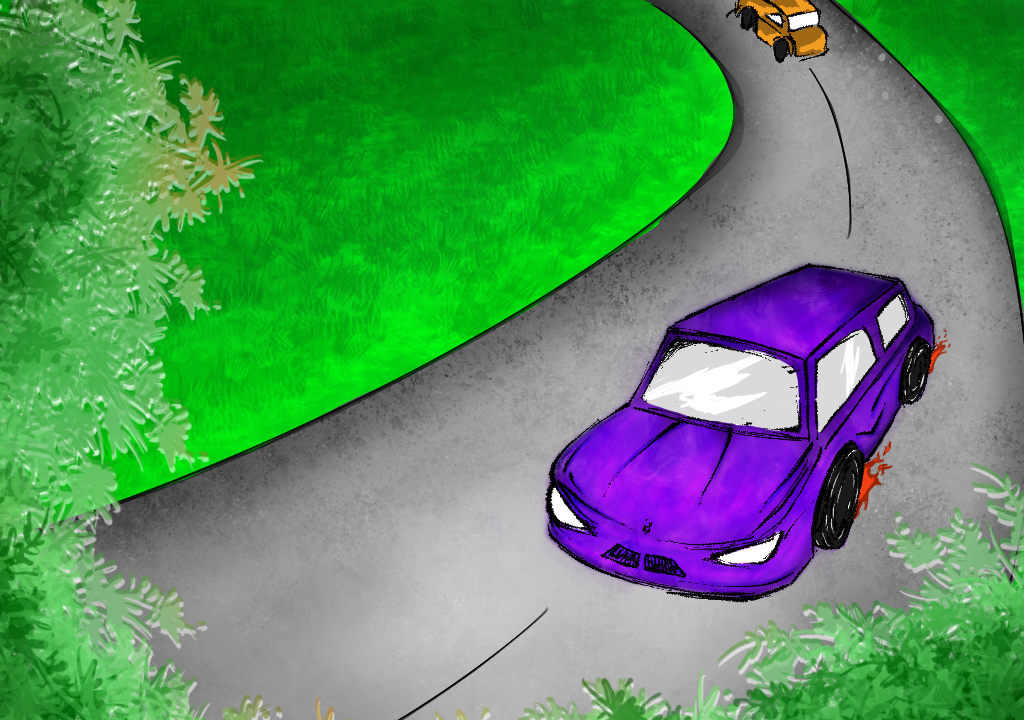
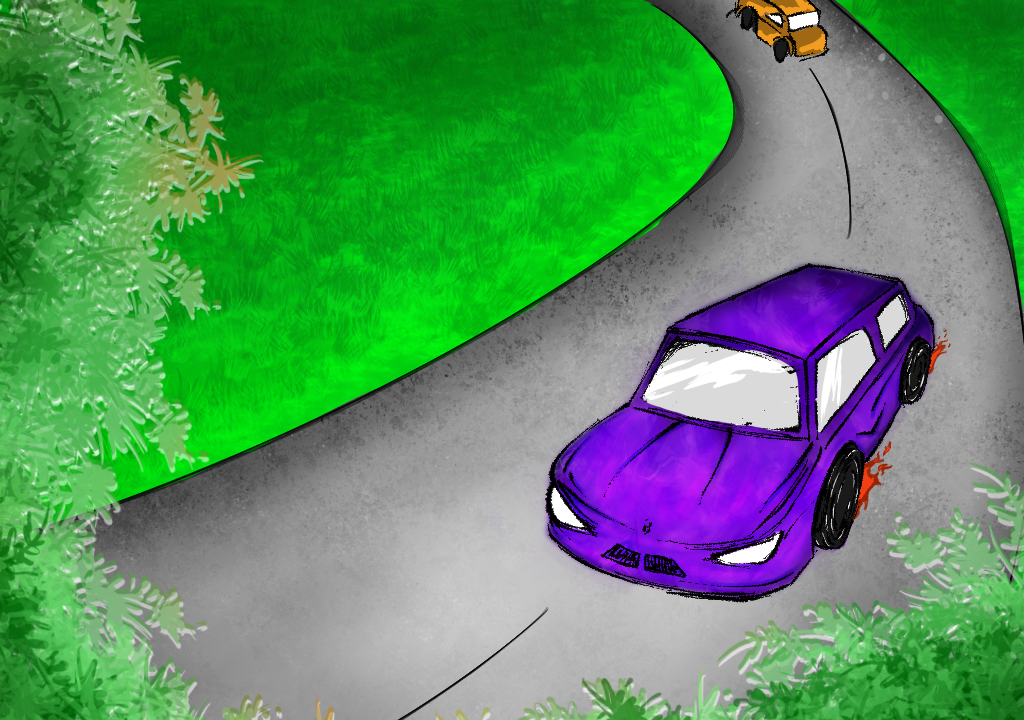
menu: Animate glass separately. Set proper first scene.

Changed region(s): [[0.625, 0.4583, 0.8438, 0.5806]]

diff --git a/src/menu/logo.cpp b/src/menu/logo.cpp
@@ -14,8 +14,12 @@ using namespace menu;
 namespace menu
 {
     static array<SDL_Texture*, bg_frames_count> _bg_frames;
+
+    static array<SDL_Texture*, glass_frames_count> _glass_frames;
+
     static array<SDL_Texture*, title_texture_count> _title_textures;
     static array<Point, title_texture_count> _title_size;
+
     static SDL_Texture* _play_btn_texture;
     static Point _play_btn_size;
 
@@ -25,6 +29,12 @@ namespace menu
         BASE "frame_2.png",
         BASE "frame_3.png",
         BASE "frame_4.png"
+    };
+    constexpr std::array<const char*, glass_frames_count> glass_paths {
+        BASE "glass_1.png",
+        BASE "glass_2.png",
+        BASE "glass_3.png",
+        BASE "glass_4.png"
     };
     constexpr std::array<const char*, title_texture_count> title_paths {
         BASE "title1.png",
@@ -61,6 +71,13 @@ array<SDL_Texture*, bg_frames_count> const& menu::bg_frames()
     return _bg_frames;
 }
 
+array<SDL_Texture*, glass_frames_count> const& menu::glass_frames()
+{
+    while(init_next()) { }
+
+    return _glass_frames;
+}
+
 array<SDL_Texture*, title_texture_count> const& menu::title_textures()
 {
     while(init_next()) { }
@@ -94,7 +111,7 @@ bool menu::init_next()
 {
     static size_t _step = 0;
 
-    if(_step == bg_frames_count + title_texture_count + 1)
+    if(_step == bg_frames_count + glass_frames_count + title_texture_count + 1)
         return false;
 
     auto step = _step++;
@@ -108,24 +125,36 @@ bool menu::init_next()
 
         return true;
     }
+    step -= bg_frames_count;
 
-    if(step < bg_frames_count + title_texture_count) {
-        step -= bg_frames_count;
+    if(step < glass_frames_count) {
+        auto data = load_texture(glass_paths[step], true);
+        _glass_frames[step] = data.first;
+        if(data.second != glass_size()) {
+            cout << "Glass frame doesn't match expected size!" << endl;
+        }
 
+        return true;
+    }
+    step -= glass_frames_count;
+
+    if(step < title_texture_count) {
         auto data = load_texture(title_paths[step], true);
         _title_textures[step] = data.first;
         _title_size[step] = data.second;
 
         return true;
     }
+    step -= title_texture_count;
 
-    if(step == bg_frames_count + title_texture_count) {
+    if(step == 0) {
         auto data = load_texture(play_btn_path, true);
         _play_btn_texture = data.first;
         _play_btn_size = data.second;
 
         return false;
     }
+    step--;
 
     cout << "Huh, menu::init_next overshooted?" << endl;
     return false;

diff --git a/src/menu/tick.cpp b/src/menu/tick.cpp
@@ -1,9 +1,15 @@
 #include "menu/menu.hpp"
 #include "menu/logo.hpp"
 #include "core/scene.hpp"
+#include <iostream>
 
 
 size_t menu::current_bg_frame = 0;
+size_t menu::current_glass_frame = 0;
+float menu::glass_frame_transition_progress = 0;
+
+using std::cout;
+using std::endl;
 
 namespace menu
 {
@@ -30,4 +36,20 @@ void menu::tick(u32 ms, scene_uid)
         current_bg_frame = (current_bg_frame + 1) % bg_frames_count;
     }
 
+
+    static bool glass_waiting = true;
+    static float glass_frame_cache = 0;
+    glass_frame_cache += ms * glass_framerate / 1000.0f;
+
+    if(glass_waiting && glass_frame_cache > glass_delay * glass_framerate / 1000.0f) {
+        glass_frame_cache -= glass_delay * glass_framerate / 1000.0f;
+        glass_waiting = false;
+    } else if(!glass_waiting && glass_frame_cache > 1) {
+        glass_frame_cache -= 1.0f;
+        current_glass_frame = (current_glass_frame + 1) % glass_frames_count;
+        if(current_glass_frame == 0)
+            glass_waiting = true;
+    }
+
+    glass_frame_transition_progress = glass_waiting ? 0.0f : glass_frame_cache;
 }

diff --git a/src/menu/render.cpp b/src/menu/render.cpp
@@ -15,11 +15,30 @@ static auto& rnd = core::renderer;
 
 void menu::render(scene_uid)
 {
-    // SDL_SetRenderDrawColor(rnd, 0, 0, 0, 255);
-    // SDL_RenderClear(rnd);
-
+    // Background
     SDL_RenderCopy(rnd, bg_frames()[current_bg_frame % bg_frames_count], nullptr, nullptr);
 
+    /* Animated car glass */ {
+        size_t frame1 = current_glass_frame % glass_frames_count;
+        size_t frame2 = (frame1 + 1) % glass_frames_count;
+        auto tex1 = glass_frames()[frame1];
+        auto tex2 = glass_frames()[frame2];
+        float progress = glass_frame_transition_progress;
+
+        SDL_SetTextureAlphaMod(tex1, 255);
+        SDL_SetTextureAlphaMod(tex2, 255 * progress);
+
+        auto pos = glass_pos();
+        auto size = glass_size();
+
+        SDL_Rect area {
+            pos.x, pos.y,
+            size.x, size.y
+        };
+
+        SDL_RenderCopy(rnd, tex1, nullptr, &area);
+        SDL_RenderCopy(rnd, tex2, nullptr, &area);
+    }
 
     for(size_t i = 0; i < title_texture_count; i++) {
         auto tex = title_textures()[i];

diff --git a/src/menu/logo.hpp b/src/menu/logo.hpp
@@ -11,12 +11,22 @@ using std::array;
 namespace menu
 {
     constexpr size_t bg_frames_count = 4;
+    constexpr size_t glass_frames_count = 4;
 
     array<SDL_Texture*, bg_frames_count> const& bg_frames();
     constexpr Point bg_size() { return { 1024, 720 }; }
 
+    array<SDL_Texture*, glass_frames_count> const& glass_frames();
+    constexpr Point glass_pos() { return { 642, 292 }; }
+    constexpr Point glass_size() { return { 268, 141 }; }
+
     constexpr float bg_framerate = 12.0f;
+    constexpr float glass_framerate = 6.0f;
+    constexpr size_t glass_delay = 2500; // ms
+
     extern size_t current_bg_frame;
+    extern size_t current_glass_frame;
+    extern float glass_frame_transition_progress;
 
 
     constexpr size_t title_texture_count = 2;

diff --git a/src/scenes.cpp b/src/scenes.cpp
@@ -1,16 +1,15 @@
 #include "core/scene.hpp"
 
-#include "game/game.hpp"
 #include "startup/startup.hpp"
+#include "menu/menu.hpp"
+#include "game/game.hpp"
 
 
 void core::register_scenes()
 {
     core::scene<startup::scene_uid>("startup");
-
+    core::scene<menu::scene_uid>("menu");
     core::scene<game::scene_uid>("game");
 
     core::set_scene("startup");
 }
-
-
